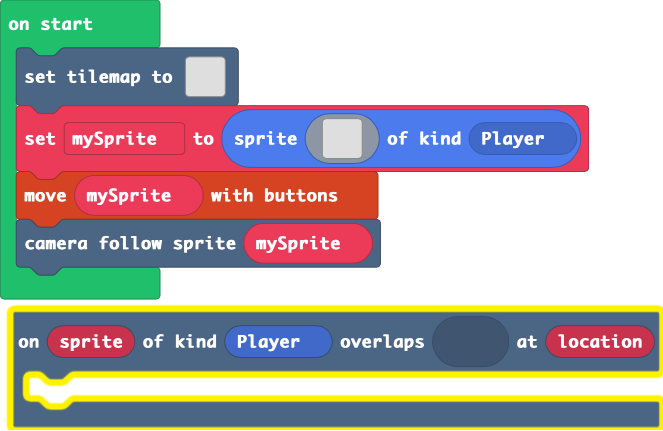
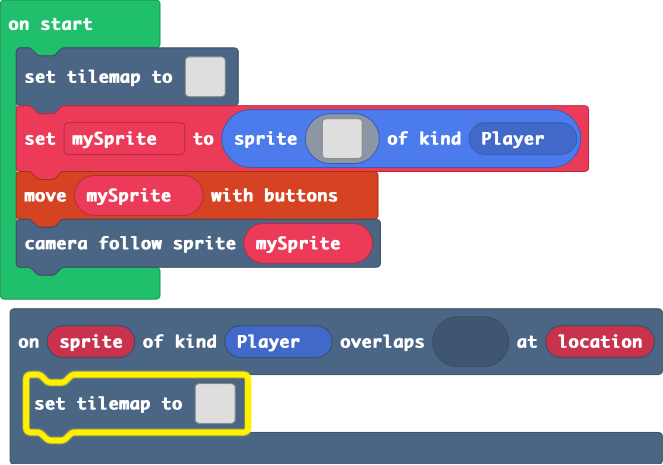
Update main.blocks, main.ts

diff --git a/main.ts b/main.ts
@@ -1,5 +1,19 @@
-scene.onOverlapTile(SpriteKind.Player, myTiles.transparency16, function (sprite, location) {
-	
+scene.onOverlapTile(SpriteKind.Player, sprites.dungeon.stairLarge, function (sprite, location) {
[1 lines of base64/hex data omitted]
+        . . . . . . . . . . 
+        . . . . . . . . . . 
+        . . . . . . . . . . 
+        . . . . . . . . . . 
+        . . . . . . . . . . 
+        . . . . . . . . . . 
+        . . . . . . . . . . 
+        . . . . . . . . . . 
+        . . . . . . . . . . 
+        . . . . . . . . . . 
+        . . . . . . . . . . 
+        . . . . . . . . . . 
+        . . . . . . . . . . 
+        `, [myTiles.transparency16,sprites.dungeon.purpleOuterNorthEast,sprites.dungeon.purpleOuterEast0,sprites.dungeon.purpleOuterNorthWest,sprites.dungeon.purpleOuterSouthEast,sprites.dungeon.purpleOuterWest1,sprites.dungeon.purpleOuterNorth1,sprites.dungeon.purpleOuterSouthWest,sprites.dungeon.purpleOuterSouth1,sprites.dungeon.floorLight2,sprites.dungeon.floorDark0,sprites.dungeon.stairLarge], TileScale.Sixteen))
 })
[1 lines of base64/hex data omitted]
     . 2 2 2 2 2 2 2 2 . 
@@ -15,7 +29,7 @@ tiles.setTilemap(tiles.createTilemap(hex`0a000d0000010303030303030400000c0e0e0e0
     . 2 . . . . . . 2 . 
     . 2 . . . . . . 2 . 
     . 2 2 2 2 2 2 2 2 . 
-    `, [myTiles.transparency16,sprites.dungeon.purpleOuterNorthWest,sprites.dungeon.purpleInnerNorthEast,sprites.dungeon.purpleOuterNorth0,sprites.dungeon.purpleOuterNorthEast,sprites.dungeon.purpleOuterEast0,sprites.dungeon.purpleOuterSouthEast,sprites.dungeon.purpleOuterSouthWest,sprites.dungeon.purpleOuterSouth1,sprites.dungeon.purpleInnerNorthWest,sprites.dungeon.purpleInnerSouthEast,sprites.dungeon.purpleInnerSouthWest,sprites.dungeon.purpleOuterWest1,sprites.dungeon.purpleOuterNorth1,sprites.dungeon.floorLight0,sprites.dungeon.chestClosed], TileScale.Sixteen))
+    `, [myTiles.transparency16,sprites.dungeon.purpleOuterNorthWest,sprites.dungeon.purpleInnerNorthEast,sprites.dungeon.purpleOuterNorth0,sprites.dungeon.purpleOuterNorthEast,sprites.dungeon.purpleOuterEast0,sprites.dungeon.purpleOuterSouthEast,sprites.dungeon.purpleOuterSouthWest,sprites.dungeon.purpleOuterSouth1,sprites.dungeon.purpleInnerNorthWest,sprites.dungeon.purpleInnerSouthEast,sprites.dungeon.purpleInnerSouthWest,sprites.dungeon.purpleOuterWest1,sprites.dungeon.purpleOuterNorth1,sprites.dungeon.floorLight0,sprites.dungeon.stairLarge], TileScale.Sixteen))
 let mySprite = sprites.create(img`
     . . . . f f f f f . . . . . . . 
     . . . f e e e e e f . . . . . . 
